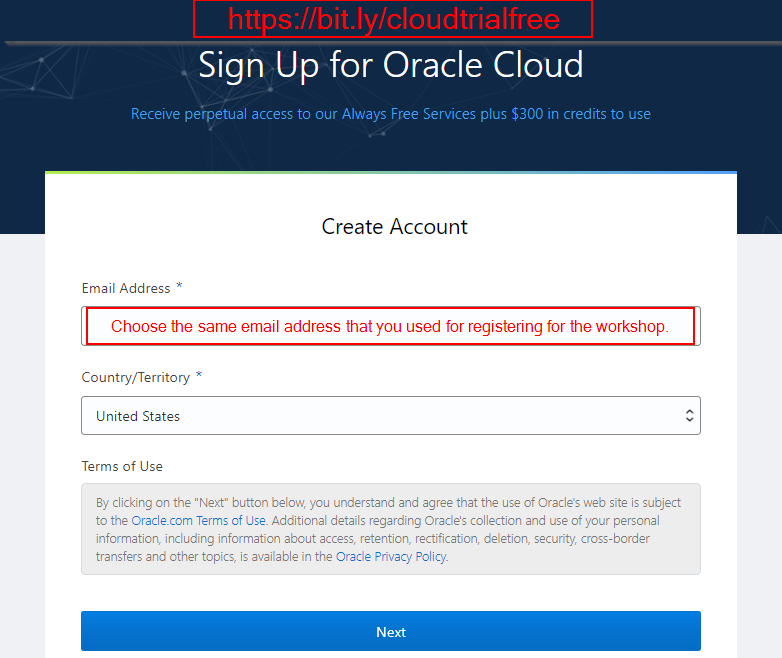
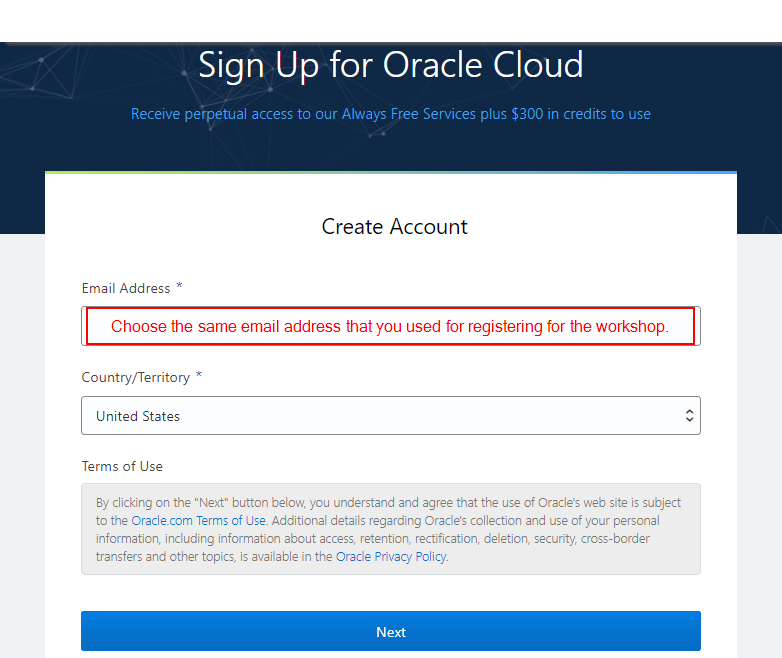
Updates to prereqs for july workshop

Changed region(s): [[0.0, 0.0, 1.0, 0.0608]]

diff --git a/DataScience/prereq2/lab.md b/DataScience/prereq2/lab.md
@@ -1,22 +1,14 @@
 ![](../commonimages/workshop_logo.png)
 
-## Prerequisite 2: Provision the Data Science service and its required network resources
-
-This consists of the following:
-- Create a user group for your data scientists.
-- Create a compartment for your data science work.
-- Create the VCN and subnet necessary to give your data scientists egress access to the public internet from a notebook session.
-- Create the proper policies to give your data scientists access to the data science service.
-- Provision the Data Science service (Project and Notebook)
+## Prerequisite 2: Provision the Data Science service and its dependencies
 
 There are two ways to do this:
-1) If you are working in an Oracle Cloud tenancy that is "empty", e.g. you have just created your Cloud Free Tier account, then we recommend you use the automated approach. 
-
-2) In case you have already provisioned several services or you have already performed configurations in your Oracle Cloud tenancy before, we recommend you provision these resources manually. In this case, follow the manual instructions so that you can control and review each step of the process as you go along and, if necessary, adapt it to your unique situation.
+- Option 1 (Recommended): Automated provisioning, recommended if you are doing this in a new Oracle Cloud tenancy that is "empty", e.g. you have just created your trial. Please go [here](../prereq1/lab.md) first in case you don't have an Oracle Cloud Trial yet.
+- Option 2: In all other cases we recommend manual step-by-step provisioning of the Data Science service and its dependencies. In this case, follow the manual instructions so that you can control and review each step of the process as you go along and, if necessary, adapt it to your unique situation.
 
 ### Option 1: Automated provisioning of network resources and the Data Science service
 
-This is the recommend approach in case you are working in an Oracle Cloud tenancy that is "empty", e.g. you have just created your Cloud (Trial) tenancy. This is the fastest way to provision these resources.
+This is the recommend approach in case you are working in an Oracle Cloud tenancy that is "empty", e.g. you have just created your Cloud Trial. This is the fastest way to provision these resources.
 
 - In your Oracle Cloud console, open the menu.
 
@@ -87,6 +79,13 @@ Provisioning should take about 10 minutes after which the status of the Job shou
 ### Option 2: Manual installation steps to provision network resources and the Data Science service
 
 This approach is recommended if you already have other services / configurations made in your Oracle Cloud tenancy. 
+
+This consists of the following:
+- Create a user group for your data scientists.
+- Create a compartment for your data science work.
+- Create the VCN and subnet necessary to give your data scientists egress access to the public internet from a notebook session.
+- Create the proper policies to give your data scientists access to the data science service.
+- Provision the Data Science service (Project and Notebook)
 
 If this is the case, please follow the detailed provisioning steps [here](https://docs.cloud.oracle.com/en-us/iaas/data-science/data-science-tutorial/tutorial/get-started.htm#concept_tpd_33q_zkb).
 

diff --git a/DataScience/prereq1/lab.md b/DataScience/prereq1/lab.md
@@ -4,11 +4,14 @@
 If you already have an Oracle Cloud tenancy, you may continue to [Prerequisite 2: Provision Data Science service](../prereq1/lab.md).
 -->
 
+We highly recommend that you request a NEW Oracle Cloud Trial to do the workshop. If instead you use a trial that you've requested on an earlier occasion, it may not have enough credits to do the workshop.
+In that case, please contact us and we will try to find a solution.
+
 ## Prerequisite 1: Request an Oracle Cloud Free Tier account
 
-Sign up here: [https://bit.ly/cloudtrialfree](https://bit.ly/cloudtrialfree). 
+Sign up here: [https://bit.ly/getfreecloudtrial](https://bit.ly/getfreecloudtrial). 
 
-Please use **the same email address** that you used for registering for the workshop.
+Please use the SAME email address that you used for registering for the workshop.
 
 ![](./images/create_cloud_trial.png)
 
